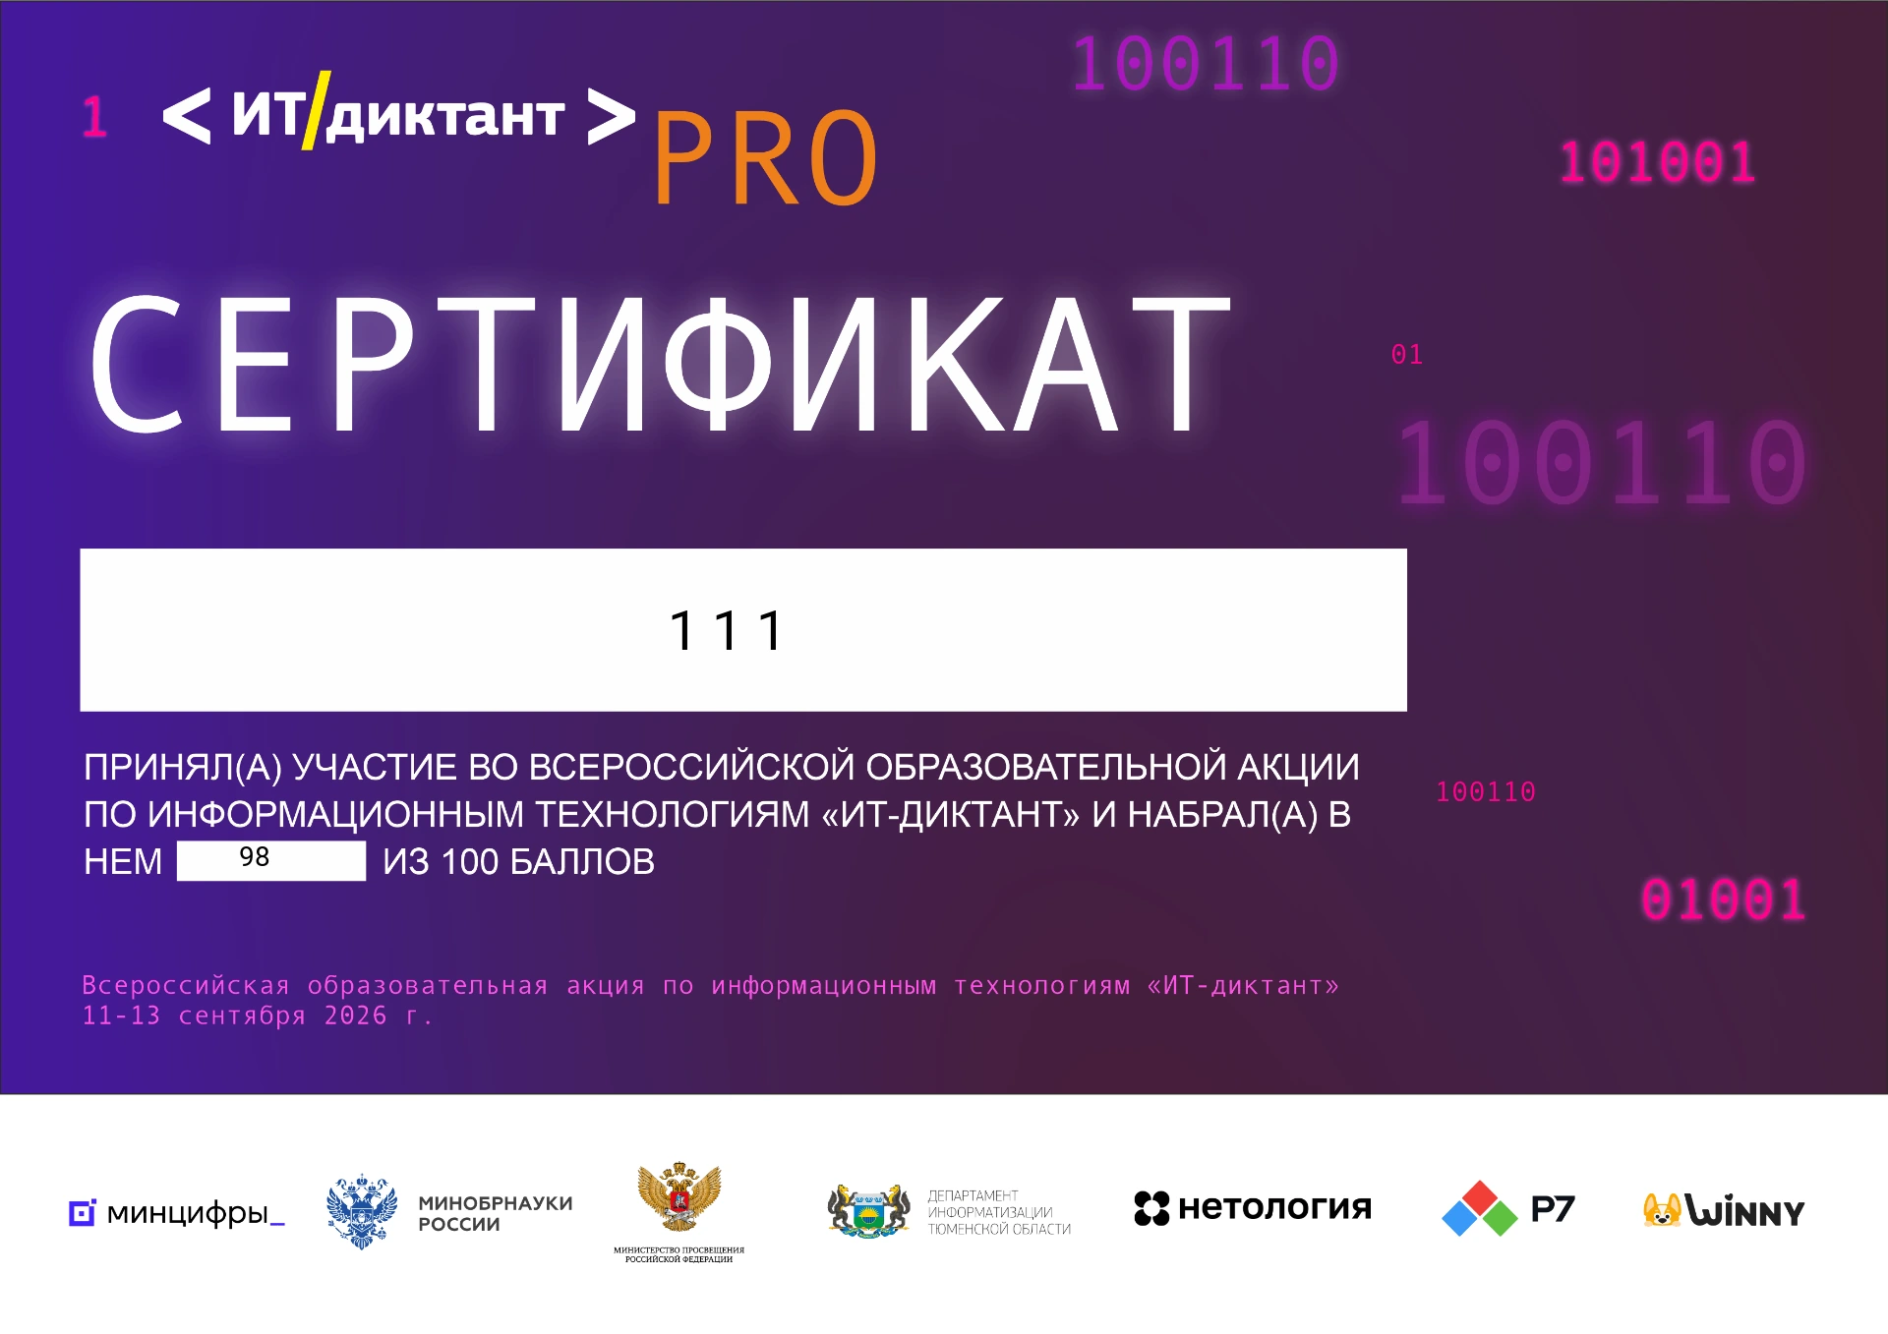
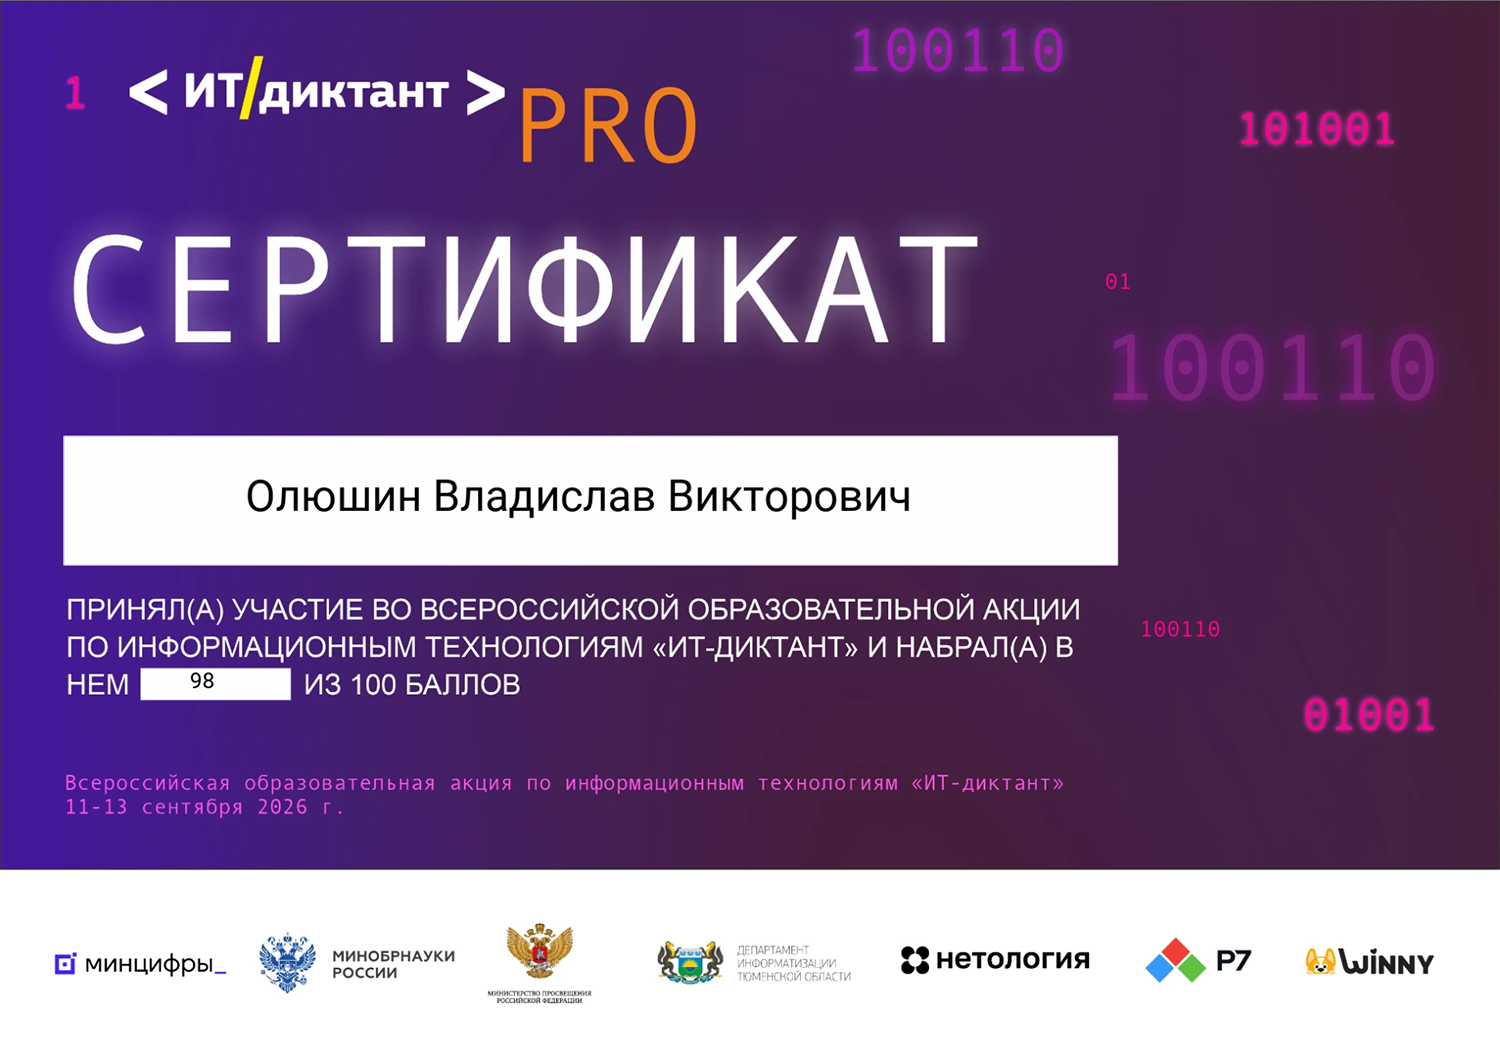
Добавить перелистывание наград

Changed region(s): [[0.1533, 0.4358, 0.6133, 0.4981]]

diff --git a/assets/js/main.js b/assets/js/main.js
@@ -427,20 +427,38 @@ class MediaViewer {
     this.image = document.querySelector('#imgModalImg');
     this.frame = document.querySelector('#imgModalFrame');
     this.lastTrigger = null;
+    this.galleryItems = [];
+    this.currentIndex = -1;
+    this.touchStartX = null;
 
     this.onClick = this.onClick.bind(this);
     this.onKeyDown = this.onKeyDown.bind(this);
+    this.onTouchStart = this.onTouchStart.bind(this);
+    this.onTouchEnd = this.onTouchEnd.bind(this);
   }
 
   init() {
     if (!this.modal || !this.image || !this.frame) return;
+    this.createNavigation();
     document.addEventListener('click', this.onClick);
     document.addEventListener('keydown', this.onKeyDown);
+    this.modal.addEventListener('touchstart', this.onTouchStart, { passive: true });
+    this.modal.addEventListener('touchend', this.onTouchEnd, { passive: true });
   }
 
   open(src, trigger) {
     if (!src) return;
     this.lastTrigger = trigger;
+    this.galleryItems = this.getGalleryItems(trigger);
+    this.currentIndex = this.galleryItems.findIndex((item) => item.trigger === trigger);
+    this.showMedia(src, trigger);
+
+    this.modal.setAttribute('aria-hidden', 'false');
+    document.body.classList.add('no-scroll');
+    this.modal.querySelector('[data-modal-close]')?.focus();
+  }
+
+  showMedia(src, trigger) {
     const isPdf = this.isPdf(src);
     this.modal.classList.toggle('img-modal--pdf', isPdf);
 
@@ -453,12 +471,11 @@ class MediaViewer {
       this.frame.removeAttribute('src');
       this.frame.hidden = true;
       this.image.src = src;
+      this.image.alt = trigger?.querySelector('img')?.alt || 'Документ';
       this.image.hidden = false;
     }
 
-    this.modal.setAttribute('aria-hidden', 'false');
-    document.body.classList.add('no-scroll');
-    this.modal.querySelector('[data-modal-close]')?.focus();
+    this.updateNavigation();
   }
 
   close() {
@@ -472,6 +489,72 @@ class MediaViewer {
     document.body.classList.remove('no-scroll');
     this.lastTrigger?.focus();
     this.lastTrigger = null;
+    this.galleryItems = [];
+    this.currentIndex = -1;
+    this.touchStartX = null;
+  }
+
+  createNavigation() {
+    const dialog = this.modal.querySelector('.img-modal__dialog');
+    if (!dialog || dialog.querySelector('[data-modal-direction]')) return;
+
+    const close = dialog.querySelector('[data-modal-close]');
+    if (close) {
+      close.innerHTML = '<span class="img-modal__icon img-modal__icon--close" aria-hidden="true"></span>';
+    }
+
+    const arrowIcon = '<span class="img-modal__icon img-modal__icon--arrow" aria-hidden="true"></span>';
+
+    const previous = document.createElement('button');
+    previous.className = 'img-modal__nav img-modal__nav--previous';
+    previous.type = 'button';
+    previous.dataset.modalDirection = 'previous';
+    previous.setAttribute('aria-label', 'Предыдущая награда');
+    previous.innerHTML = arrowIcon;
+
+    const next = document.createElement('button');
+    next.className = 'img-modal__nav img-modal__nav--next';
+    next.type = 'button';
+    next.dataset.modalDirection = 'next';
+    next.setAttribute('aria-label', 'Следующая награда');
+    next.innerHTML = arrowIcon;
+
+    const counter = document.createElement('div');
+    counter.className = 'img-modal__counter';
+    counter.dataset.modalCounter = '';
+    counter.setAttribute('aria-live', 'polite');
+
+    dialog.append(previous, next, counter);
+  }
+
+  getGalleryItems(trigger) {
+    const gallery = trigger?.closest('[data-auto-gallery]');
+    if (!gallery) return [];
+
+    return Array.from(gallery.querySelectorAll('[data-img]'))
+      .map((itemTrigger) => ({ src: itemTrigger.dataset.img, trigger: itemTrigger }))
+      .filter((item) => item.src);
+  }
+
+  updateNavigation() {
+    const hasMultipleItems = this.galleryItems.length > 1 && this.currentIndex >= 0;
+    this.modal.querySelectorAll('[data-modal-direction]').forEach((button) => {
+      button.hidden = !hasMultipleItems;
+    });
+
+    const counter = this.modal.querySelector('[data-modal-counter]');
+    if (!counter) return;
+    counter.hidden = !hasMultipleItems;
+    counter.textContent = hasMultipleItems
+      ? `${this.currentIndex + 1} / ${this.galleryItems.length}`
+      : '';
+  }
+
+  navigate(step) {
+    if (this.galleryItems.length < 2 || this.currentIndex < 0) return;
+    this.currentIndex = (this.currentIndex + step + this.galleryItems.length) % this.galleryItems.length;
+    const item = this.galleryItems[this.currentIndex];
+    this.showMedia(item.src, item.trigger);
   }
 
   isPdf(src) {
@@ -498,6 +581,15 @@ class MediaViewer {
   }
 
   onClick(event) {
+    const navigationButton = event.target instanceof Element
+      ? event.target.closest('[data-modal-direction]')
+      : null;
+    if (navigationButton) {
+      event.preventDefault();
+      this.navigate(navigationButton.dataset.modalDirection === 'next' ? 1 : -1);
+      return;
+    }
+
     const closeButton = event.target instanceof Element
       ? event.target.closest('[data-modal-close]')
       : null;
@@ -518,12 +610,30 @@ class MediaViewer {
       this.close();
       return;
     }
+    if (this.modal.getAttribute('aria-hidden') === 'false' && ['ArrowLeft', 'ArrowRight'].includes(event.key)) {
+      event.preventDefault();
+      this.navigate(event.key === 'ArrowRight' ? 1 : -1);
+      return;
+    }
     if (!['Enter', ' '].includes(event.key)) return;
 
     const trigger = this.getTrigger(event.target);
     if (!trigger) return;
     event.preventDefault();
     this.open(trigger.dataset.img, trigger);
+  }
+
+  onTouchStart(event) {
+    if (this.modal.getAttribute('aria-hidden') !== 'false' || event.touches.length !== 1) return;
+    this.touchStartX = event.touches[0].clientX;
+  }
+
+  onTouchEnd(event) {
+    if (this.touchStartX === null || event.changedTouches.length !== 1) return;
+    const distance = event.changedTouches[0].clientX - this.touchStartX;
+    this.touchStartX = null;
+    if (Math.abs(distance) < 50) return;
+    this.navigate(distance < 0 ? 1 : -1);
   }
 }
 

diff --git a/assets/css/styles.css b/assets/css/styles.css
@@ -382,18 +382,87 @@ img{max-width:100%;display:block}
   width:44px;
   height:44px;
   padding:0;
-  border:1px solid rgba(255,255,255,.45);
+  border:0;
   border-radius:50%;
-  background:rgba(15,17,21,.82);
-  color:#fff;
-  font:400 32px/1 Arial, sans-serif;
+  background:transparent;
+  cursor:pointer;
+  transition:transform .15s ease;
+}
+
+.img-modal__close:hover{background:transparent;transform:scale(1.05)}
+.img-modal__close:focus-visible,
+.img-modal__nav:focus-visible{outline:3px solid #1e6bff;outline-offset:2px}
+
+.img-modal__nav{
+  position:absolute;
+  top:50%;
+  z-index:3;
+  display:grid;
+  place-items:center;
+  width:44px;
+  height:44px;
+  padding:0;
+  border:0;
+  border-radius:50%;
+  background:rgba(255,255,255,.9);
+  color:#050505;
   cursor:pointer;
   backdrop-filter:blur(6px);
+  transform:translateY(-50%);
   transition:background .15s ease, transform .15s ease;
 }
 
-.img-modal__close:hover{background:rgba(15,17,21,.96);transform:scale(1.05)}
-.img-modal__close:focus-visible{outline:3px solid #1e6bff;outline-offset:2px}
+.img-modal__nav:hover{
+  background:#fff;
+  transform:translateY(-50%) scale(1.05);
+}
+
+.img-modal__nav--previous{left:12px}
+.img-modal__nav--next{right:12px}
+.img-modal__nav--previous .img-modal__icon{transform:rotate(180deg)}
+.img-modal__nav[hidden]{display:none}
+
+.img-modal__icon{
+  display:block;
+  width:100%;
+  height:100%;
+  background-position:center;
+  background-repeat:no-repeat;
+  background-size:contain;
+}
+
+.img-modal__icon--arrow{
+  background-image:url("../icons/free-icon-arrow-right-1549612.svg");
+}
+
+.img-modal__icon--close{
+  background-image:url("../icons/free-icon-cross-mark-4225690.svg");
+}
+
+.img-modal__close .img-modal__icon{
+  width:44px;
+  height:44px;
+}
+
+.img-modal__counter{
+  position:absolute;
+  left:50%;
+  bottom:12px;
+  z-index:3;
+  padding:6px 12px;
+  border:1px solid rgba(255,255,255,.35);
+  border-radius:999px;
+  background:rgba(15,17,21,.76);
+  color:#fff;
+  font-size:14px;
+  font-weight:700;
+  line-height:1;
+  backdrop-filter:blur(6px);
+  transform:translateX(-50%);
+  pointer-events:none;
+}
+
+.img-modal__counter[hidden]{display:none}
 
 .img-modal--pdf .img-modal__dialog{
   background:#fff;
@@ -458,6 +527,16 @@ img{max-width:100%;display:block}
     top:8px;
     right:8px;
   }
+
+  .img-modal__nav{
+    width:44px;
+    height:44px;
+  }
+
+  .img-modal__nav--previous{left:8px}
+  .img-modal__nav--next{right:8px}
+
+  .img-modal__counter{bottom:8px}
 
   .img-modal__img{
     max-width:calc(100vw - 12px);

diff --git a/pages/achievements/teacher.html b/pages/achievements/teacher.html
@@ -6,7 +6,7 @@
   <link rel="icon" href="../../assets/img/favicon.ico" type="image/x-icon">
   <meta name="viewport" content="width=device-width, initial-scale=1" />
   <title>Олюшин | Достижения преподавателя</title>
-  <link rel="stylesheet" href="../../assets/css/styles.css?v=20260911g" />
+  <link rel="stylesheet" href="../../assets/css/styles.css?v=20260914f" />
 </head>
 
 <body>
@@ -121,7 +121,7 @@
     </div>
   </div>
 
-  <script src="../../assets/js/main.js?v=20260911i"></script>
+  <script src="../../assets/js/main.js?v=20260914c"></script>
 </body>
 </html>
 

diff --git a/pages/achievements/students.html b/pages/achievements/students.html
@@ -6,7 +6,7 @@
   <link rel="icon" href="../../assets/img/favicon.ico" type="image/x-icon">
   <meta name="viewport" content="width=device-width, initial-scale=1" />
   <title>Олюшин | Достижения студентов</title>
-  <link rel="stylesheet" href="../../assets/css/styles.css?v=20260911g" />
+  <link rel="stylesheet" href="../../assets/css/styles.css?v=20260914f" />
 </head>
 
 <body>
@@ -123,7 +123,7 @@
     </div>
   </div>
 
-  <script src="../../assets/js/main.js?v=20260911i"></script>
+  <script src="../../assets/js/main.js?v=20260914c"></script>
 </body>
 </html>
 
